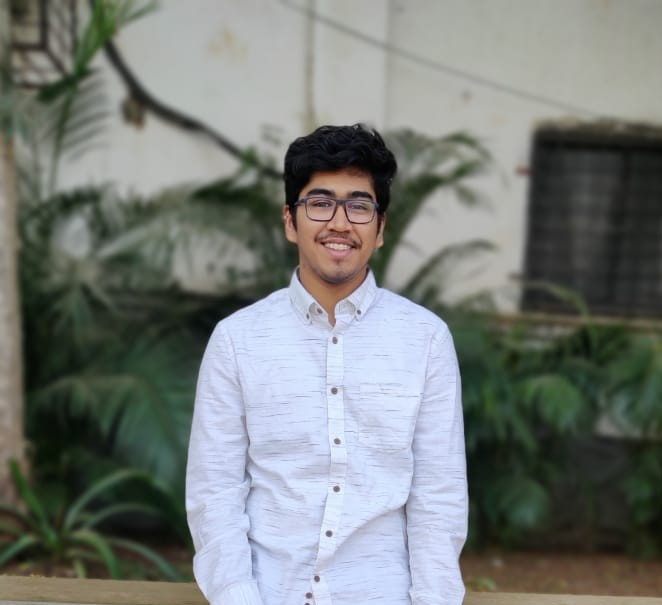
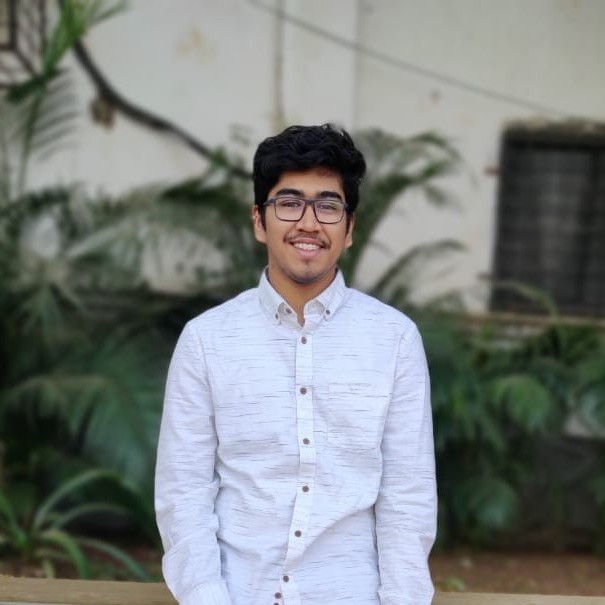
Added photos of contact ppl

diff --git a/src/Pages/Contact.js b/src/Pages/Contact.js
@@ -15,17 +15,20 @@ const Contact = () => {
             </Row>
             <Row className="contactppl">
               <Col sm="4" className="mt-2">
+                <Image src="../onkar.jpg" fluid roundedCircle />
                 <div> Omkar Litke </div>
                 <div className="maillink"> <a href="mailto:jr.onkarlitake@gmail.com">jr.onkarlitake@gmail.com</a><br />
                   +91 988114969</div>
 
               </Col>
               <Col sm="4" className="mt-2">
+                <Image src="../durvesh.jpg" fluid roundedCircle />
                 <div> Durvesh Malpure </div>
                 <div className="maillink"> <a href="mailto:durveshmalpurecoc@gmail.com">durveshmalpurecoc@gmail.com</a><br />
                   +91 9172952268</div>
               </Col>
               <Col sm="4" className="mt-2">
+                <Image src="../rohan.jpeg" fluid roundedCircle />
                 <div> Rohan Pawar </div>
                 <div className="maillink"> <a href="mailto:rohanpawar1999@gmail.com">rohanpawar1999@gmail.com</a><br />
                   +91 9834570868</div>

diff --git a/src/CSS/ContactUs.css b/src/CSS/ContactUs.css
@@ -16,11 +16,21 @@
 }
 
 .maillink {
-    font-size: x-small;
+    font-size: 0.6rem;
 }
 
 .contactppl {
     text-align: center;
+}
+
+@media screen and (min-width: 1330px ) {
+    .contactppl {
+        font-size: 1.5rem;
+    }
+
+    .maillink {
+        font-size: 1rem;
+    }
 }
 
 .fdbkfrm {
